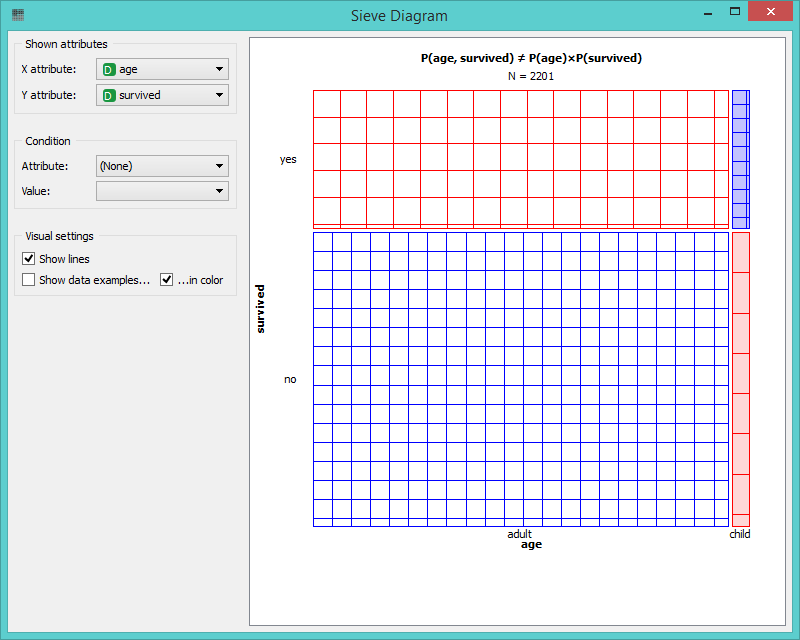
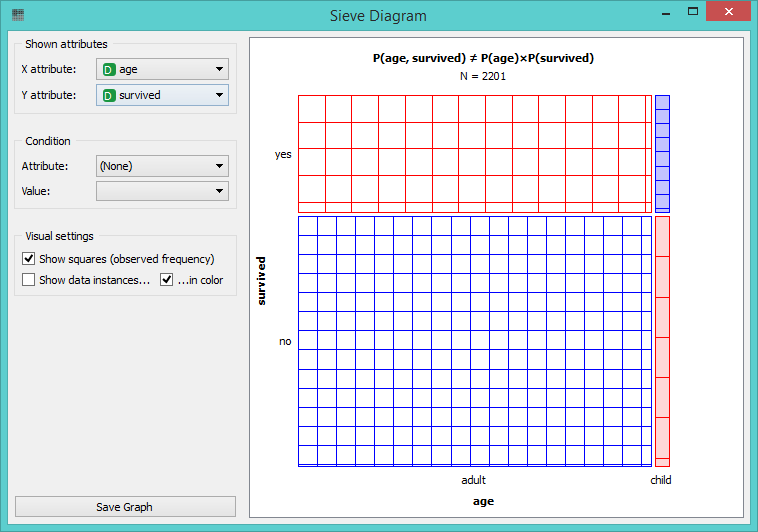
sievediagram: Update documentation

Changed region(s): [[0.0, 0.0, 1.0, 0.9925], [0.1214, 0.2406, 0.3034, 0.3609]]

diff --git a/doc/widgets/visualize/sievediagram.md b/doc/widgets/visualize/sievediagram.md
@@ -22,8 +22,9 @@ Description
 -----------
 
 **Sieve diagram** is a graphical method for visualizing frequencies in
-a two-way contingency table and comparing them to the expected
-frequencies under assumption of independence. The sieve diagram was
+a two-way contingency table and comparing them to the [expected
+frequencies](http://cnx.org/contents/d396c4ad-2fd7-47cd-be84-152b44880feb@2/What-is-an-expected-frequency)
+under assumption of independence. The sieve diagram was
 proposed by Riedwyl and Schüpbach in a technical report in 1983 and
 later called a parquet diagram (Riedwyl and Schüpbach, 1994). In this display the
 area of each rectangle is proportional to the expected frequency, while the
@@ -32,6 +33,16 @@ The difference between observed and expected frequency (proportional to
 the standard Pearson residual) appears as the density of shading, using
 color to indicate whether the deviation from independence is positive
 (blue) or negative (red).
+
+![image](images/SieveDiagram-stamped.png)
+
+1. Select the attributes you want to display in the sieve plot.
+2. Select an additional condition for the plot. This will show the selected two attributes only for the defined condition (e.g. attribute = survived, value = no).
+3. Visual settings for your plot.
+    - *Show squares (observed frequency)* displays horizontal and vertical lines representing observed frequency.
+    - *Show data instances...* displayes dots in the plot that represent instances.
+    - *...in color* adds the corresponding color to the dots.
+4. *Save graph* saves the graph to your computer in a .svg or .png format.
 
 The snapshot below shows a sieve diagram for *Titanic* data set and has
 attributes *sex* and *survived* (the latter is a class attribute in
@@ -49,6 +60,16 @@ indeed the one we show in the above snapshot. For contrast, a sieve
 diagram of the least interesting pair (age vs. survival) is shown below.
 
 ![image](images/SieveDiagram-Titanic-age-survived.png)
+
+Example
+-------
+
+Below we see a simple schema using a *Titanic* data set, where we use **Rank** widget to select the best attributes 
+(the ones with the highest information gain, gain ratio or gini index) and feed them into **Sieve Diagram**. This
+displays the sieve plot for the two best attributes, which in our case are sex and status. We see that the survival rate
+on Titanic was very high for women of the first class and very low for female crew members. 
+
+<img src="images/SieveDiagram-Example.png" alt="image" width="600">
 
 References
 ----------
